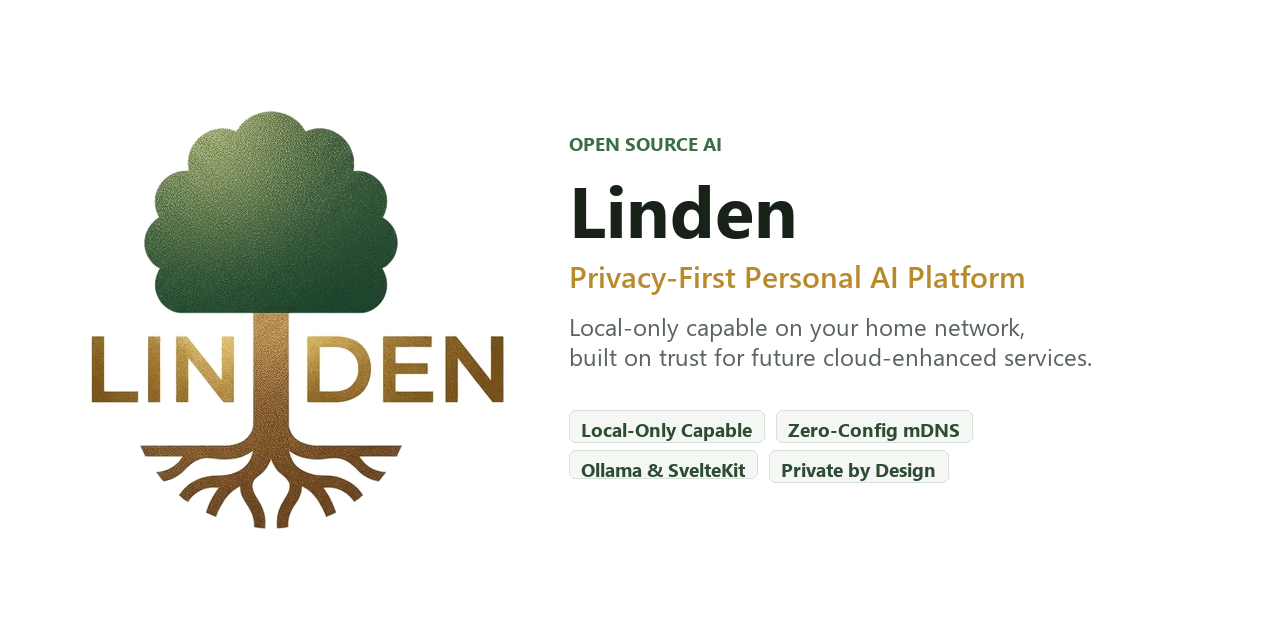
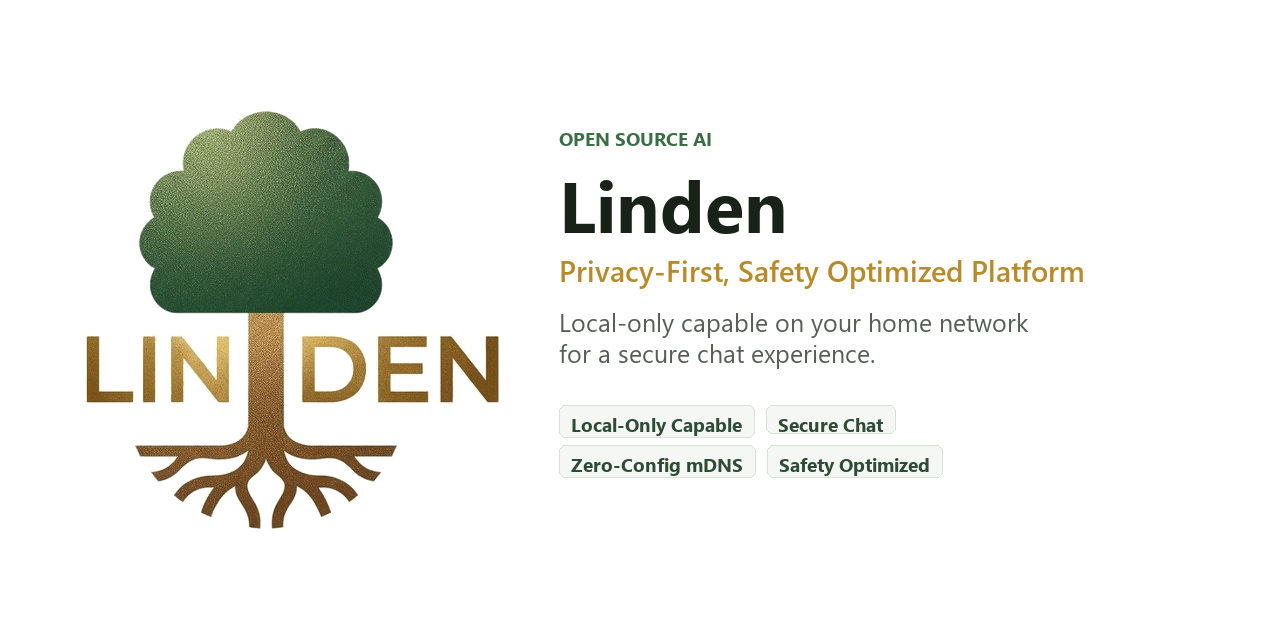
docs: update overall platform description (#43)

diff --git a/README.md b/README.md
@@ -18,7 +18,7 @@
 
 ---
 
-Linden is a self-contained, local-first personal AI appliance built for Linux. It runs directly on your local network hardware, serving chat completions and streaming responses using locally running language models. With complete local-only capability, auditable source code, and full control over your data, Linden gives you a personal assistant that you control completely.
+Linden is a privacy-first, safety optimized personal AI platform. Local-only capable on your home network for a secure chat experience, it runs directly on your local network hardware, serving chat completions and streaming responses using locally running language models. With complete offline capability, auditable source code, and full control over your data, Linden gives you a personal assistant that you control completely.
 
 See [AGENTS.md](AGENTS.md) for agentic engineering workflows and contributor conventions.
 

diff --git a/docs/product/README.md b/docs/product/README.md
@@ -1,6 +1,6 @@
 # Linden Documentation
 
-Welcome to the documentation for **Linden**, a privacy-first personal AI platform for your home network.
+Welcome to the documentation for **Linden**, a privacy-first, safety optimized personal AI platform. Local-only capable on your home network for a secure chat experience.
 
 Linden runs directly on hardware you own with complete local-only capability. By default, it operates fully offline without requiring external cloud LLM connections, keeping all conversations, documents, and vectors within your local environment while establishing the trust needed for future optional cloud-enhanced services.
 

diff --git a/docs/product/spec/00-overview.md b/docs/product/spec/00-overview.md
@@ -2,7 +2,7 @@
 
 ## What Linden is
 
-Linden is a privacy-first personal AI platform. A user runs it on a machine they own, on their own network, and gets a personal AI assistant that operates completely offline by default, requiring no mandatory accounts or third-party LLM dependencies.
+Linden is a privacy-first, safety optimized personal AI platform. A user runs it on a machine they own, on their own network, and gets a personal AI assistant that is local-only capable for a secure chat experience, requiring no mandatory accounts or third-party LLM dependencies.
 
 ## Design commitments
 

diff --git a/AGENTS.md b/AGENTS.md
@@ -1,6 +1,6 @@
 # Linden
 
-A privacy-first personal AI platform. Users run an assistant locally on their home network with complete offline capability, built on a foundation of trust that opens the door for future optional cloud-enhanced services.
+A privacy-first, safety optimized personal AI platform. Local-only capable on your home network for a secure chat experience, built on a foundation of trust that opens the door for future optional cloud-enhanced services.
 
 ## Architecture
 
